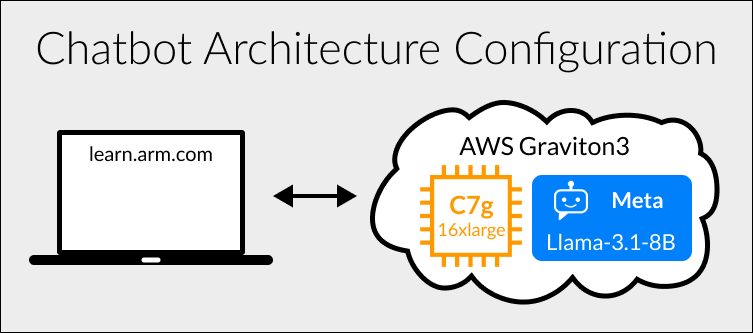
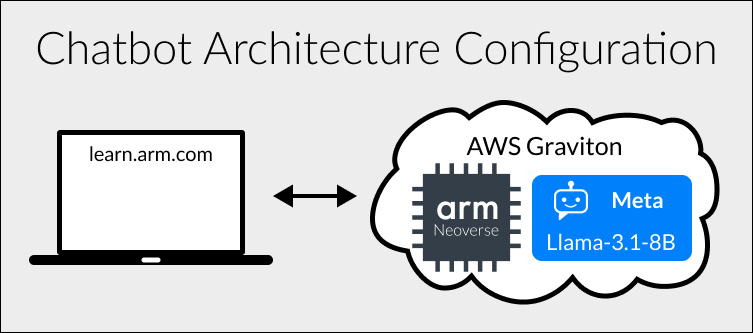
Finalizing demo templating

Changed region(s): [[0.5498, 0.3904, 0.8552, 0.8408]]

diff --git a/themes/arm-design-system-hugo-theme/layouts/partials/demo-components/llm-chatbot/javascript--llm-chatbot.html b/themes/arm-design-system-hugo-theme/layouts/partials/demo-components/llm-chatbot/javascript--llm-chatbot.html
@@ -227,7 +227,7 @@ Calls to:
         const chatbot_response_div = chatbot_messages[0];
         const chatbot_message_span = chatbot_response_div.querySelector('span');
 
-        chatbot_message_span.textContent += messageData.replace(/</g, "").replace(/>/g, "");
+        chatbot_message_span.textContent += messageData;
 
     }
 
@@ -379,7 +379,22 @@ function toggleButton() {
     }
 }
 
+// Check if textarea input makes a new line
+function hidePopupOnInputHeightIncrease() {
+    const text_area = document.getElementById('user-input-for-demo');
+    const popup = document.getElementById('notification-popup');
+    if (text_area.scrollHeight > 44) {
+        popup.classList.remove('show-popup');
+        popup.classList.add('hide-popup');
+    }
+}
 
+function adjustInputHeight() {
+    const text_area = document.getElementById('user-input-for-demo');
+    text_area.style.height = 'auto'; // Reset height to recalculate
+    text_area.style.height = (text_area.scrollHeight > text_area.clientHeight ? text_area.scrollHeight : text_area.clientHeight) + 'px';
+    hidePopupOnInputHeightIncrease(); // Auto-hide popup if height is above default (multiple lines)
+}
 
 
 
@@ -410,6 +425,7 @@ document.addEventListener("DOMContentLoaded", function() {
         else {
             // Clear message box & toggle button
             text_area.value = '';
+            adjustInputHeight();
             toggleButton();
             text_area.focus();
 
@@ -426,8 +442,9 @@ document.addEventListener("DOMContentLoaded", function() {
 
     // User enters any text in textinput
     text_area.addEventListener('input', function() {
-        this.style.height = 'auto';
-        this.style.height = (this.scrollHeight > this.clientHeight ? this.scrollHeight : this.clientHeight) + 'px';
+        //this.style.height = 'auto';
+        //this.style.height = (this.scrollHeight > this.clientHeight ? this.scrollHeight : this.clientHeight) + 'px';
+        adjustInputHeight();
         toggleButton();         // enable input button
     });
     // User hits enter in textinput
@@ -491,17 +508,17 @@ document.addEventListener("DOMContentLoaded", function() {
 
             // Update ping & popup status
             if (data.cluster_utilization == 'normal') {
-                showPopupPostConnection('Connected to Graviton-based LLM! Start chatting now.',"success");
+                showPopupPostConnection('Connected to Arm Neoverse V2 based LLM! Start chatting now.',"success");
                 //ping_txt.textContent = `Ping: ${ping}`
                 traffic_txt.textContent = 'Server traffic: Low'
             }
             else if (data.cluster_utilization == 'high') {
-                showPopupPostConnection('Connected to Graviton-based LLM! Traffic is high, delays may occur. Start chatting now.',"success");
+                showPopupPostConnection('Connected to Arm Neoverse V2 based LLM! Traffic is high, delays may occur. Start chatting now.',"success");
                 //ping_txt.textContent = `Ping: ${ping}`
                 traffic_txt.textContent = `Server traffic: High`   
             }
             else if (data.cluster_utilization == 'at-limit') {
-                showPopupPostConnection('Connected to Graviton-based LLM! Traffic is high, delays may occur. Start chatting now.',"warning");
+                showPopupPostConnection('Connected to Arm Neoverse V2 based LLM! Traffic is high, delays may occur. Start chatting now.',"warning");
                 //ping_txt.textContent = `Ping: ${ping}`
                 traffic_txt.textContent = `Server traffic: High`   
             }
@@ -513,7 +530,7 @@ document.addEventListener("DOMContentLoaded", function() {
             entry_div.style.opacity = '0.75';
             entry_div.setAttribute('placeholder','No connection');
 
-            showPopupPostConnection('Unable to connect. The problem may be with us; try refreshing the page.',"error");
+            showPopupPostConnection('Unable to connect to the server; try refreshing the page or returning later.',"error");
         });
     }
     
@@ -571,7 +588,7 @@ document.addEventListener("DOMContentLoaded", function() {
     
                                 if (return_json.message_type == 'initial_response') {
                                     if (return_json.value == 'NO_RESOURCES_AVAILABLE') {
-                                        showPopupPostConnection("No open resources -  try sending a new message.","warning");                                                 
+                                        showPopupPostConnection("I'm sorry, too many people are trying to access me at once! Try again a bit later.","warning");                                                 
                                     }
                                     else if (return_json.value == 'STREAM_STARTING') {
                                         hidePopup();
@@ -584,7 +601,7 @@ document.addEventListener("DOMContentLoaded", function() {
                                     updateLLMMetrics(return_json.value);
                                 }
                                 else {
-                                    showPopupPostConnection("Unexpected server response - try a new message.","error");                                                
+                                    showPopupPostConnection("Unexpected server response - try a new message or return later.","error");                                                
                                 }    
                             }
                         }
@@ -594,7 +611,7 @@ document.addEventListener("DOMContentLoaded", function() {
                 return readStream(); // Read the stream
             } else {
                 console.error('Error sending message to the server');
-                showPopupPostConnection("Problem sending message - try a new message.","error");                                      
+                showPopupPostConnection("Problem sending message - try sending a new message.","error");                                      
             }
         })
         .catch(error => { 
@@ -612,7 +629,7 @@ document.addEventListener("DOMContentLoaded", function() {
             }
             else {
                 console.error('An unexpected error occurred:', error);
-                showPopupPostConnection('Unknown error - try sending a new message.',"error");
+                showPopupPostConnection('Server error - try sending a new message.',"error");
             }
         });
     }

diff --git a/themes/arm-design-system-hugo-theme/layouts/partials/demo-components/overview-box.html b/themes/arm-design-system-hugo-theme/layouts/partials/demo-components/overview-box.html
@@ -22,7 +22,7 @@ Calls to:
 
 <div class="content-box">
     <h2>Overview</h2>
-        <p class="u-margin-left-1">{{.Params.overview}}</p>
+        <p class="u-margin-left-1">{{.Params.overview | markdownify }}</p>
 
     <div class="c-row u-gap-1/2 lg:u-flex-nowrap">
         <!-- Left - Demo steps -->

diff --git a/assets/css/demo.css b/assets/css/demo.css
@@ -250,7 +250,7 @@
 #notification-popup {
     position: absolute;
     /*top: -34px;*/
-    bottom: 46px; 
+    bottom: 46px; /* 66 at 2 lines....86 at 3 lines....106px at 4 lines */
 
     left: 0;
     width: calc(100% - 32px); /* Subtract gutter space from width */

diff --git a/content/learning-paths/servers-and-cloud-computing/llama-cpu/_demo.md b/content/learning-paths/servers-and-cloud-computing/llama-cpu/_demo.md
@@ -1,10 +1,16 @@
 ---
 title: Run a llama.cpp chatbot powered by Arm Kleidi technology
-overview: Running a chatbot can be expensive at scale, and surprising performance can be achieved with quantized (4 or 8 bit) small LLMs (~8 billion parameters) on Arm Neoverse CPUs. CPUs are generally more accessible and lower cost than traditional GPU solutions. Chat with the Llama-3.1-8b LLM here to see the performance for yourself. This demo is running on AWS Graviton 3, on C7g.16xlarge instances.
+overview: | 
+  This Arm Kleidi learning path shows how to use a single AWS Graviton instance -- powered by an Arm Neoverse CPU -- to build a simple “Token as a Service” server, used below to provide a chat-bot to serve a small number of concurrent users. 
+  
+  This architecture would be suitable for businesses looking to deploy the latest Generative AI technologies using their existing CPU compute capacity and deployment pipelines. The demo uses the open source llama.cpp framework, which Arm has enhanced by contributing and merged the latest Arm Kleidi Technologies. Further optimizations are achieved by using the smaller 8 billion parameter Llama 3.1 model, which has been quantized to optimize memory usage. 
+  
+  Chat with the Llama-3.1-8B LLM below to see the performance for yourself, then follow the learning path to build your own Generative AI service on Arm Neoverse.
+
 
 demo_steps:
   - Type & send a message to the chatbot.
-  - Get the chatbot's reply.
+  - Receive the chatbot's reply.
   - View stats showing how well AWS Graviton runs LLMs. 
 
 diagram: config-diagram-dark.png
@@ -65,7 +71,7 @@ tps_ranges:
 ### FIXED, DO NOT MODIFY
 # ================================================================================
 demo_template_name: llm_chatbot_first_demo   # allows the 'demo.html' partial to route to the correct Configuration and Demo/Stats sub partials for page render.
-weight: 1                       # _index.md always has weight of 1 to order correctly
+weight: 2                       # _index.md always has weight of 1 to order correctly
 layout: "learningpathall"       # All files under learning paths have this same wrapper
 learning_path_main_page: "yes"  # This should be surfaced when looking for related content. Only set for _index.md of learning path content.
 ---

diff --git a/content/learning-paths/servers-and-cloud-computing/llama-cpu/llama-chatbot.md b/content/learning-paths/servers-and-cloud-computing/llama-cpu/llama-chatbot.md
@@ -1,6 +1,6 @@
 ---
 title: Run a Large Language model (LLM) chatbot on Arm servers
-weight: 2
+weight: 3
 
 ### FIXED, DO NOT MODIFY
 layout: learningpathall

diff --git a/content/learning-paths/servers-and-cloud-computing/llama-cpu/llama-server.md b/content/learning-paths/servers-and-cloud-computing/llama-cpu/llama-server.md
@@ -1,6 +1,6 @@
 ---
 title: Access the chatbot using the OpenAI-compatible API 
-weight: 3
+weight: 4
 
 ### FIXED, DO NOT MODIFY
 layout: learningpathall
